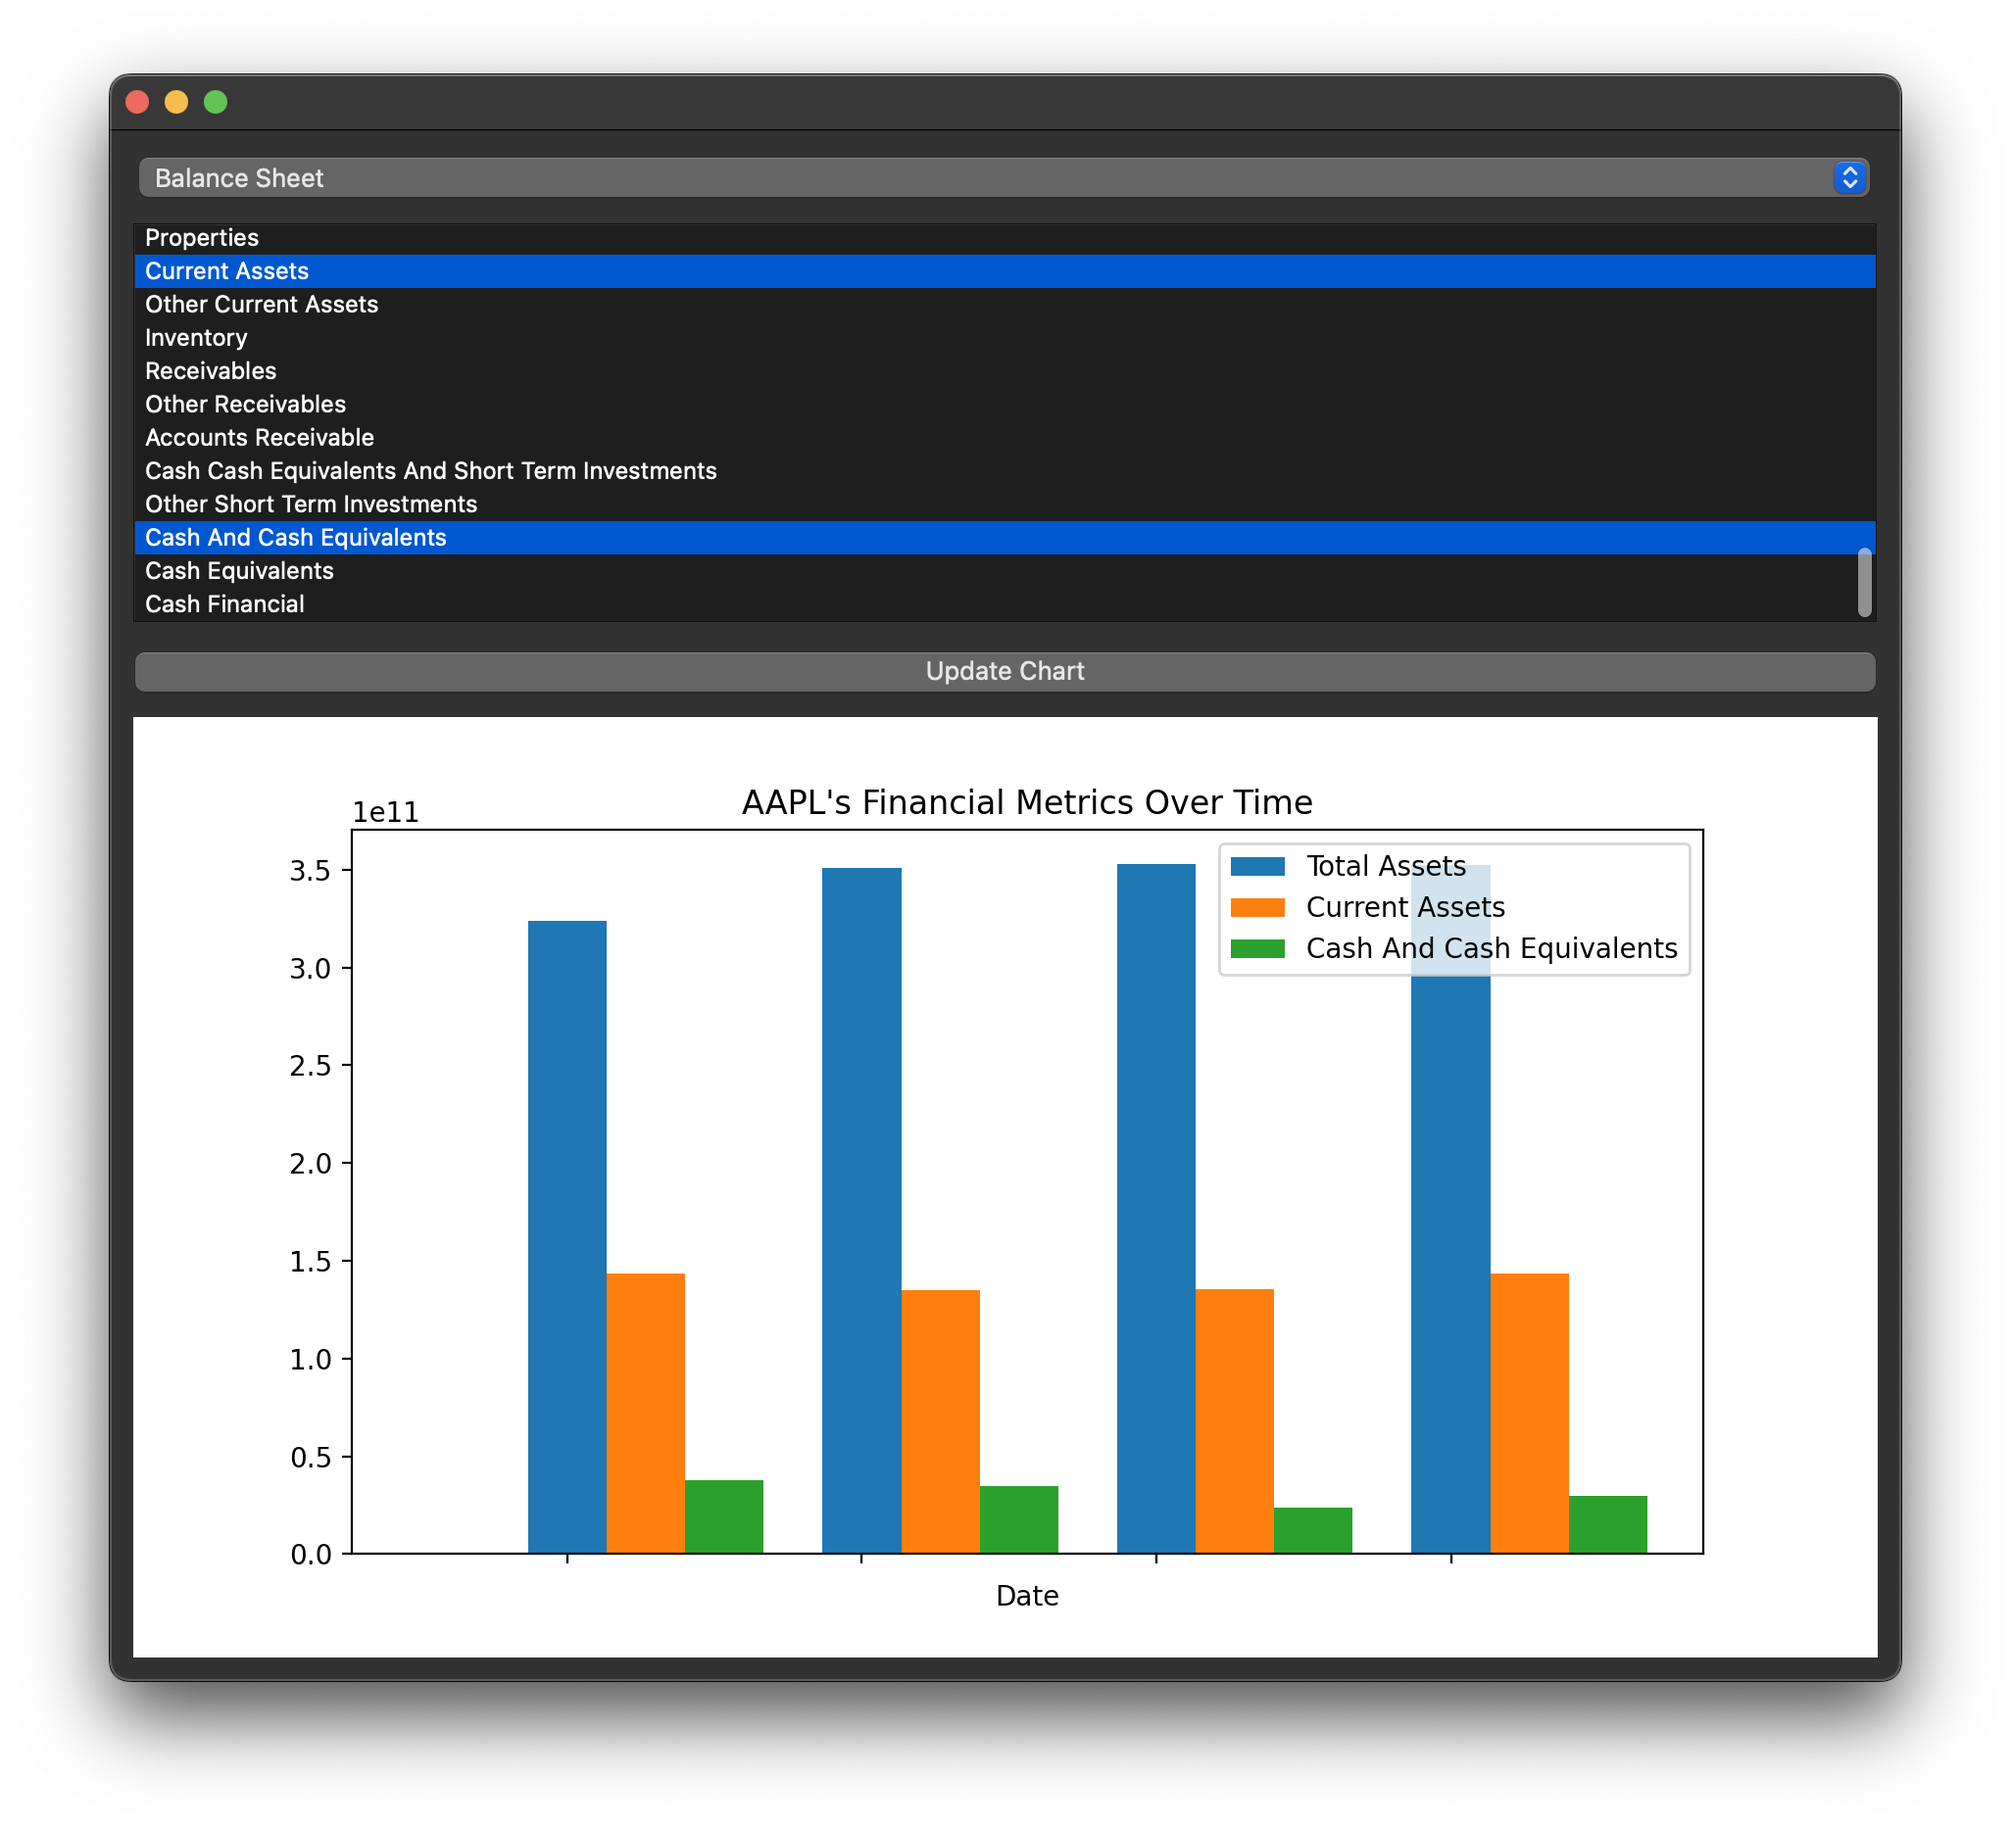
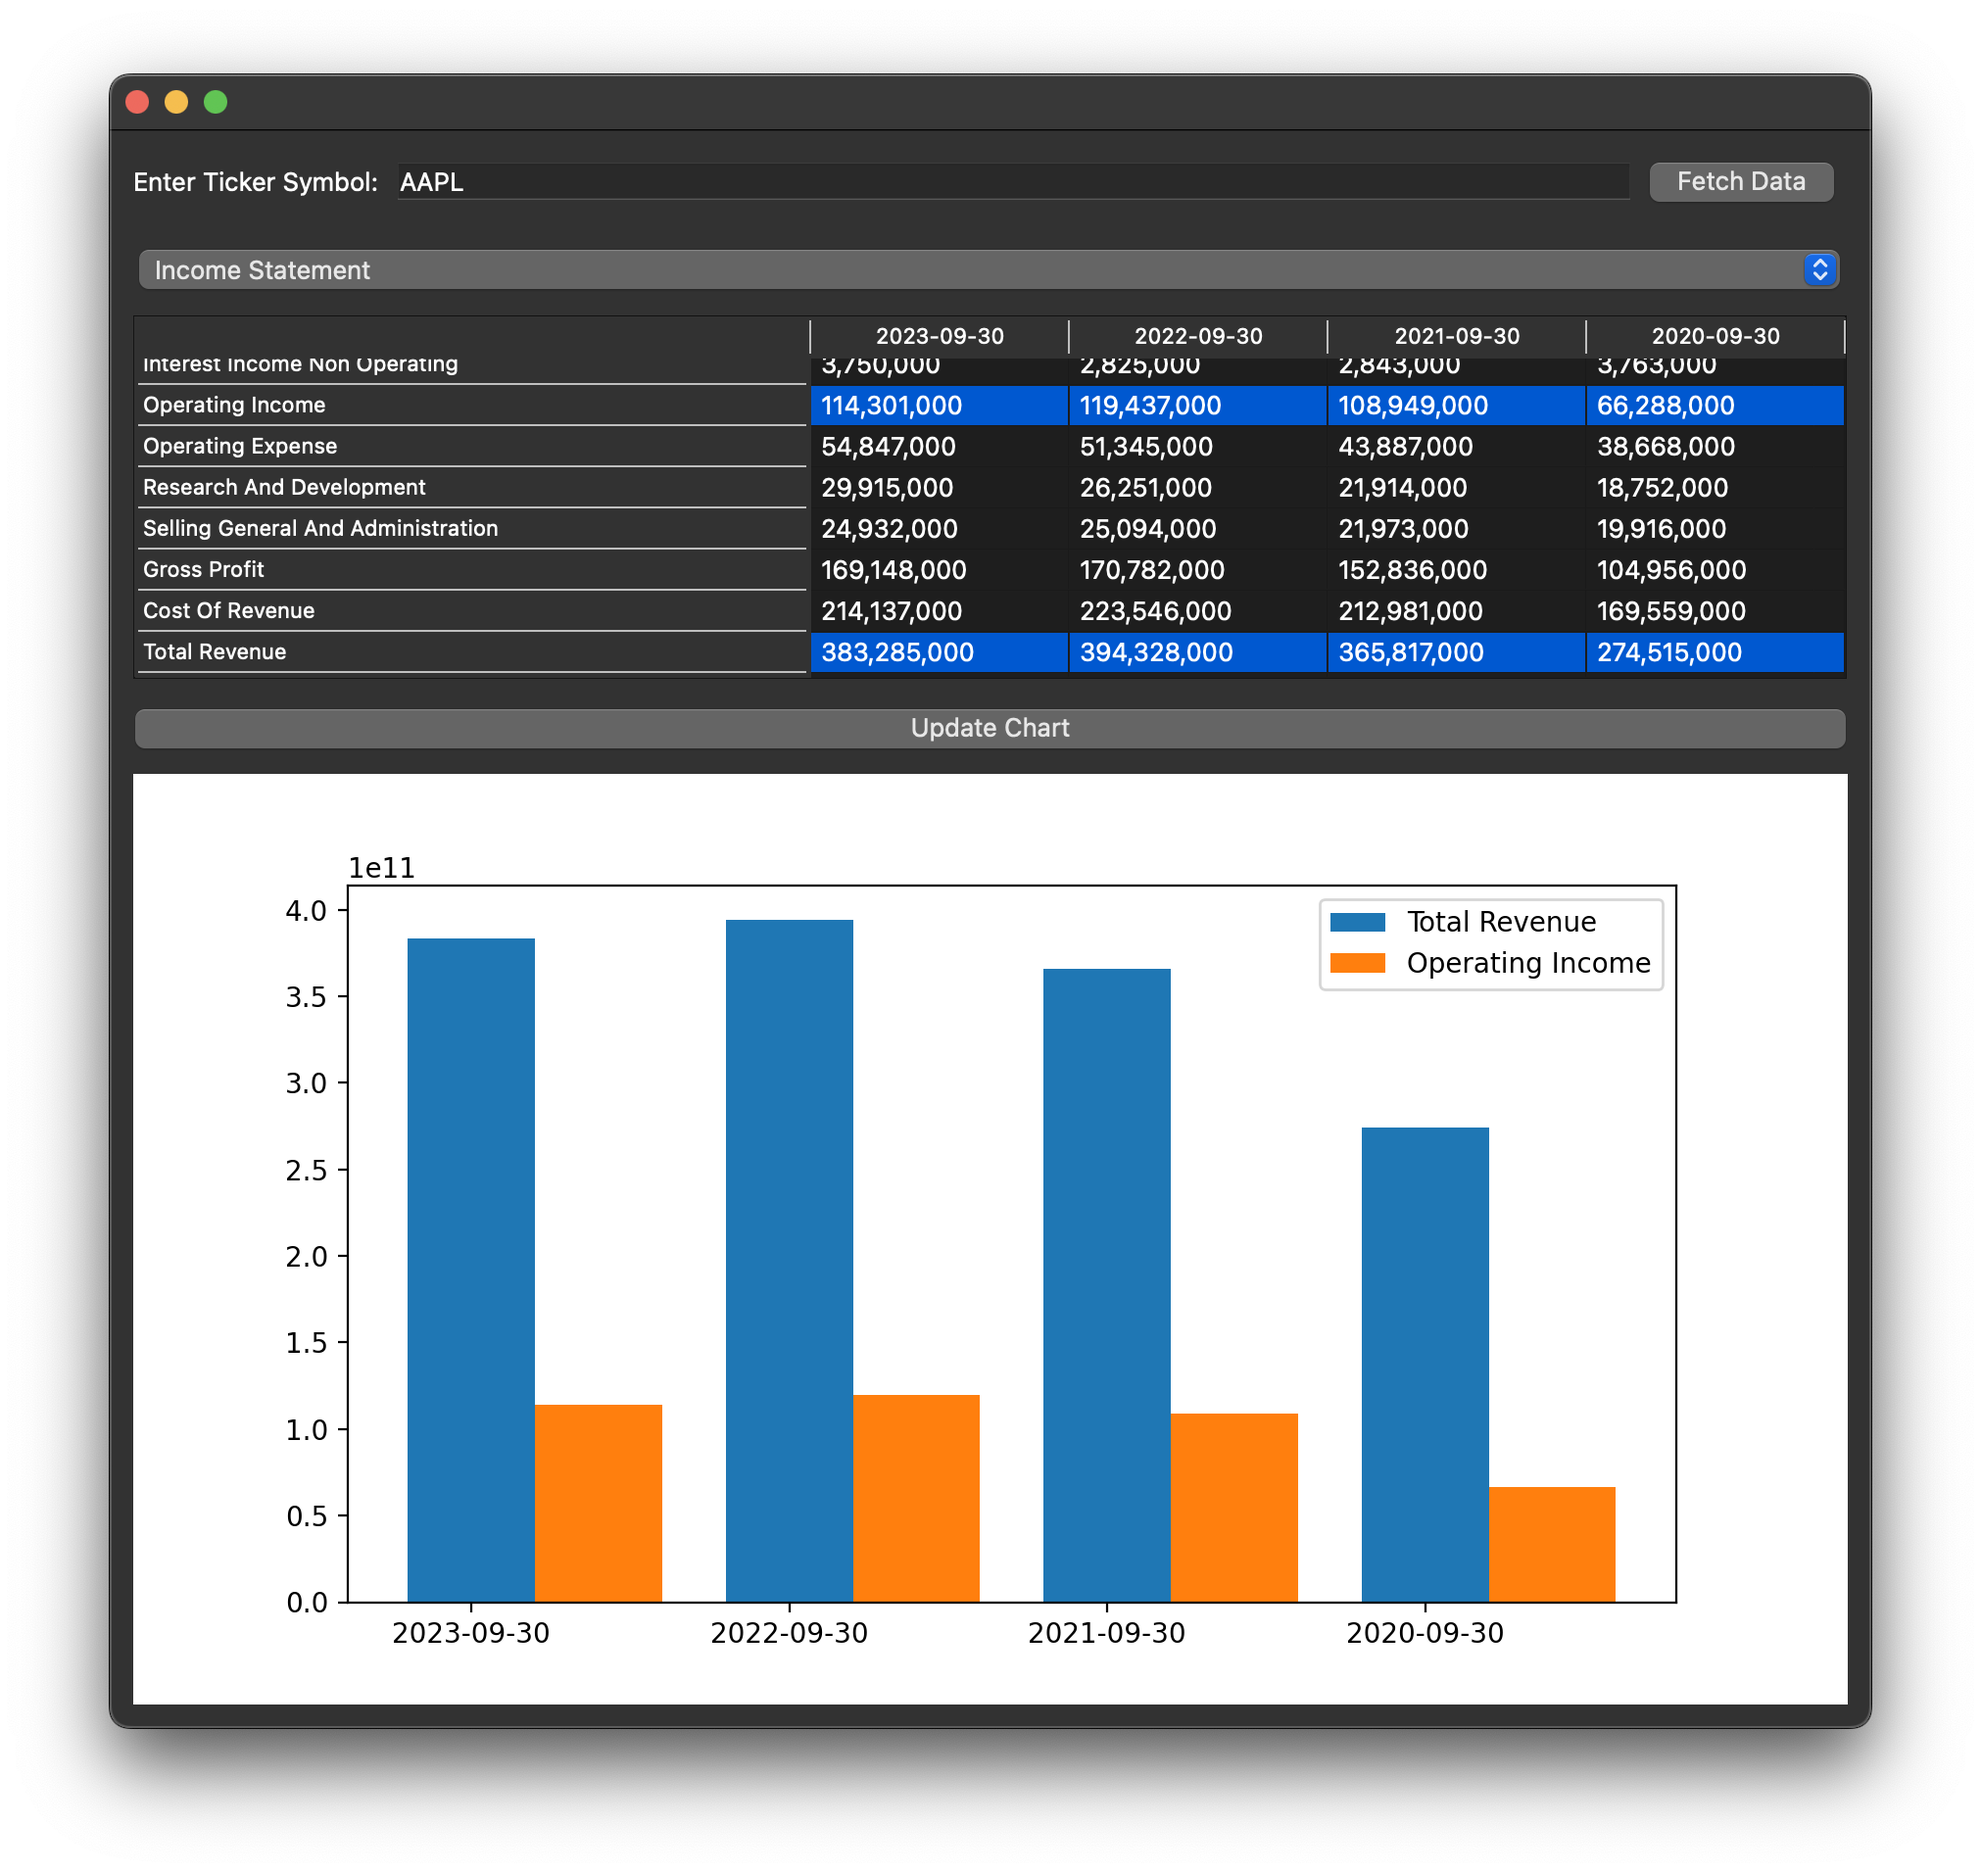
Introduced table format for displaying financial data - Changed the multi-selection tool for the graph from a list to a table of financial data

Changed region(s): [[0.0623, 0.0311, 0.9347, 0.9335]]

diff --git a/main.py b/main.py
@@ -4,10 +4,10 @@ import numpy as np
 import pandas as pd
 import yfinance as yf
 from PyQt5.QtWidgets import (QApplication, QMainWindow, QVBoxLayout, QWidget,
-                             QListWidget, QPushButton, QComboBox, QLineEdit, QLabel, QHBoxLayout)
+                             QPushButton, QComboBox, QLineEdit, QLabel, QHBoxLayout, QTableWidget,
+                             QTableWidgetItem, QHeaderView)
 from matplotlib.backends.backend_qt5agg import FigureCanvasQTAgg as FigureCanvas
 from matplotlib.figure import Figure
-from matplotlib.ticker import MaxNLocator
 
 pd.set_option('future.no_silent_downcasting', True)
 
@@ -46,13 +46,15 @@ class PlotApp(QMainWindow):
         self.statement_type_combo.setEnabled(False)  # Disabled until data is fetched
         main_layout.addWidget(self.statement_type_combo)
 
-        self.list_widget = QListWidget(self)
-        self.list_widget.setSelectionMode(QListWidget.MultiSelection)
-        self.list_widget.setEnabled(False)  # Disabled until data is fetched
-        main_layout.addWidget(self.list_widget)
+        # Table displaying the financial statement
+        self.table_widget = QTableWidget(self)
+        self.table_widget.setSelectionBehavior(QTableWidget.SelectRows)
+        main_layout.addWidget(self.table_widget)
+        self.table_widget.horizontalHeader().setSectionResizeMode(QHeaderView.Stretch)
+        self.table_widget.verticalHeader().setSectionResizeMode(QHeaderView.Stretch)
 
         # Connect dropdown to update list function
-        self.statement_type_combo.currentTextChanged.connect(self.update_list_widget)
+        self.statement_type_combo.currentTextChanged.connect(self.update_table_widget)
 
         self.button = QPushButton('Update Chart', self)
         self.button.clicked.connect(self.update_bar_plot)
@@ -71,34 +73,53 @@ class PlotApp(QMainWindow):
         ticker = self.ticker_input.text().strip().upper()
         if ticker:
             self.data = fetch_financials(ticker)
-            self.update_list_widget('Income Statement')
+            self.update_table_widget('Income Statement')
             self.statement_type_combo.setEnabled(True)
-            self.list_widget.setEnabled(True)
+            self.table_widget.setEnabled(True)
             self.button.setEnabled(True)
             self.canvas.draw()
 
-    def update_list_widget(self, statement_type):
+    def update_table_widget(self, statement_type):
         if self.data:
-            self.list_widget.clear()
             key = statement_type.lower().replace(' ', '')
-            for column in self.data[key].columns:
-                self.list_widget.addItem(column)
+            df = self.data[key]
+            self.table_widget.setRowCount(len(df.columns))
+            self.table_widget.setColumnCount(len(df.index))
+            self.table_widget.setHorizontalHeaderLabels([idx.strftime('%Y-%m-%d') for idx in df.index])
+            self.table_widget.setVerticalHeaderLabels(df.columns)
+
+            # Define columns that should not be scaled (percentages or ratios)
+            no_scale_columns = ['Basic EPS', 'Diluted EPS', 'Tax Rate For Calcs', 'Tax Effect Of Unusual Items']
+
+            for i, col_name in enumerate(df.columns):
+                for j, date in enumerate(df.index):
+                    value = df.at[date, col_name]
+                    if col_name in no_scale_columns or statement_type == 'Metrics':
+                        # Format as percentage or leave as is for ratios
+                        item_text = f'{value:.2f}%' if 'Rate' in col_name else f'{value:.2f}'
+                    else:
+                        # Convert to thousands and format negative values with brackets
+                        item_text = f'({abs(value / 1000):,.0f})' if value < 0 else f'{value / 1000:,.0f}'
+                    item = QTableWidgetItem(item_text)
+                    self.table_widget.setItem(i, j, item)
 
     def update_bar_plot(self):
-        selected_items = [item.text() for item in self.list_widget.selectedItems()]
+        selected_rows = self.table_widget.selectionModel().selectedRows()
         statement_type = self.statement_type_combo.currentText().lower().replace(' ', '')
+        df = self.data[statement_type]
 
-        if self.data and selected_items:
+        if selected_rows:
             self.ax.clear()
-            num_items = len(selected_items)
-            bar_width = 0.8 / num_items
-            indices = np.arange(len(self.data[statement_type].index))
-            dates = self.data[statement_type].index
-            for i, column in enumerate(selected_items):
-                self.ax.bar(indices + i * bar_width, self.data[statement_type][column], width=bar_width, label=column)
+            indices = np.arange(len(df.index))
+            bar_width = 0.8 / len(selected_rows)
+
+            for i, row in enumerate(selected_rows):
+                metric_name = self.table_widget.verticalHeaderItem(row.row()).text()
+                self.ax.bar(indices + i * bar_width, df[metric_name], width=bar_width, label=metric_name)
+
             self.ax.legend()
             self.ax.set_xticks(indices)
-            self.ax.set_xticklabels([d.strftime('%Y-%m') for d in dates])
+            self.ax.set_xticklabels([d.strftime('%Y-%m-%d') for d in df.index])
             self.canvas.draw()
 
 

diff --git a/README.md b/README.md
@@ -1,20 +1,22 @@
 # Stock Analysis
 **A Financial Statement Visualization Tool**
+
 ![](example.png)
 
 ## Overview
-This Python application provides a graphical interface to visualize key financial metrics from income statements, cash flows, and balance sheets of publicly traded companies, using data sourced from Yahoo Finance. The application utilizes PyQt5 for the GUI and Matplotlib for plotting, allowing users to dynamically select a ticker symbol and view financial data interactively.
+This Python application provides a graphical interface to visualize key financial metrics from income statements, cash flows, balance sheets, and computed metrics of publicly traded companies, using data sourced from Yahoo Finance. The application uses PyQt5 for the GUI and Matplotlib for plotting, enabling dynamic selection of ticker symbols and interactive viewing of financial data.
 
 ## Features
 - **Dynamic Ticker Input**: Enter any ticker symbol of a publicly traded company listed on Yahoo Finance to fetch and display its financial statements.
-- **Interactive GUI**: Select the type of financial statement and specific metrics to plot via dropdown menus and a multi-select list.
-- **Bar Plot Visualization**: Visualize selected financial metrics over time with bar plots that adjust based on selected data points.
+- **Interactive GUI**: Select the type of financial statement and specific metrics to plot via a dropdown menu. Financial data is displayed in a table that allows for multi-selection of metrics for plotting.
+- **Enhanced Data Display**: Financial data is displayed in a user-friendly format in the QTableWidget, with values appropriately scaled to thousands or shown as percentages where applicable. Negative values are indicated with brackets.
+- **Bar Plot Visualization**: Visualize selected financial metrics over time with dynamically adjustable bar plots.
 - **User-Friendly Navigation**: Easily navigate through financial data using a clean and intuitive interface.
 
 ## Installation
 
 ### Prerequisites
-You need Python 3.x and the following Python packages: PyQt5, numpy, matplotlib, and yfinance.
+Ensure you have Python 3.x installed along with the following Python packages: PyQt5, numpy, matplotlib, and yfinance.
 
 Install all required packages using pip:
 
@@ -32,24 +34,26 @@ python path_to_script.py
 Replace `path_to_script.py` with the actual path to the Python script file.
 
 ## Usage
-1. Launch the application using the command provided above. The GUI will prompt you to input a ticker symbol.
-2. Enter the ticker symbol for the company whose financial data you wish to analyze in the provided text field.
+1. Start the application using the command above. The GUI will prompt you to input a ticker symbol.
+2. Enter the ticker symbol for the company whose financial data you want to analyze.
 3. Click 'Fetch Data' to load the financial statements associated with the entered ticker symbol.
-4. Select the type of financial statement from the dropdown menu.
-5. From the list that appears below the dropdown, select one or more metrics to visualize.
+4. Use the dropdown menu to select the type of financial statement.
+5. The financial data will appear in a table. Select the rows (metrics) you wish to visualize.
 6. Click the 'Update Chart' button to generate a bar plot of the selected metrics.
 
-The bar plot will dynamically display the financial metrics over time for the chosen company.
+## Data Display
+- **Values Formatting**: Monetary values are shown in thousands with negative numbers displayed in brackets. Percentages and ratios retain their formatting to ensure clarity and accuracy.
+- **Table Interaction**: The table allows for selection of multiple rows for data plotting, with each row representing a financial metric.
 
 ## Customization
-This tool is designed to be versatile, allowing you to analyze financial data for any publicly traded company by simply entering a ticker symbol in the GUI.
+This tool is designed to be versatile, allowing analysis of financial data for any publicly traded company by simply entering a ticker symbol in the GUI.
 
 ## Limitations
-- Data retrieval is dependent on the availability and responsiveness of Yahoo Finance's API.
-- The GUI layout is optimized for simplicity and may not efficiently handle an exceptionally large number of financial metrics.
+- Data retrieval is dependent on the availability and responsiveness of the Yahoo Finance API.
+- The GUI layout is optimized for simplicity but may not handle an exceptionally large number of financial metrics efficiently.
 
 ## License
-This project is open source and distributed under the MIT License.
+This project is open source and available under the MIT License.
 
 ## Contributing
-Contributions are welcome. To contribute, please fork the repository, make your changes, and submit a pull request.
+Contributions to the project are welcome. To contribute, please fork the repository, make your changes, and submit a pull request.
